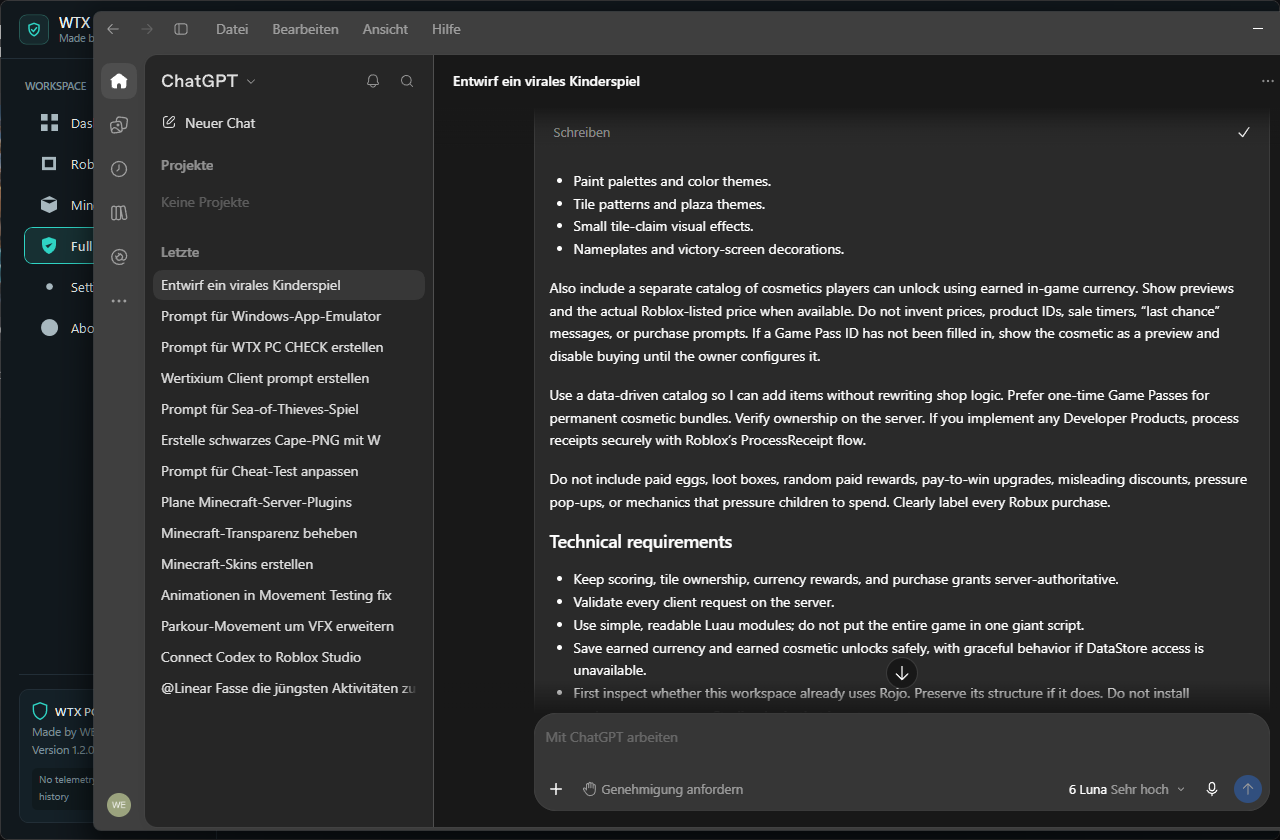
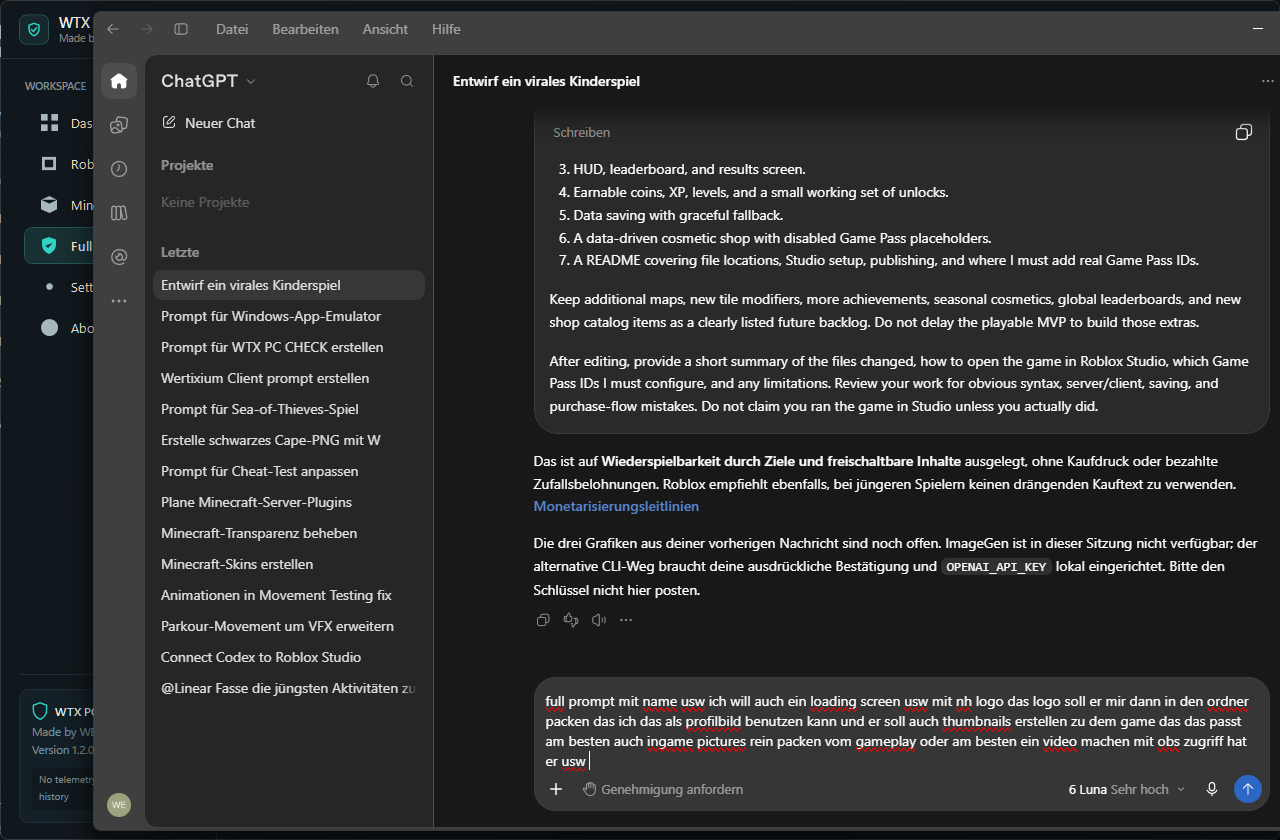
Add preview screenshots and language overview

Changed region(s): [[0.4062, 0.1857, 1.0, 0.9286], [0.9688, 0.9286, 1.0, 0.9595]]

diff --git a/README.md b/README.md
@@ -1,4 +1,10 @@
-# WTX PC CHECK
+![C#](https://img.shields.io/badge/C%23-.NET%2010-512BD4?style=flat-square&logo=dotnet)
+![Windows](https://img.shields.io/badge/Windows-10%2022H2%20%7C%2011-0078D4?style=flat-square&logo=windows)
+![Linux](https://img.shields.io/badge/Linux-x64%20%7C%20Bazzite%20%7C%20Kali-FCC624?style=flat-square&logo=linux&logoColor=111111)
+![Avalonia](https://img.shields.io/badge/UI-Avalonia%20%2B%20WPF-8B44AC?style=flat-square)
+![English UI](https://img.shields.io/badge/UI%20language-English-2FD4C4?style=flat-square)
+
+# WTX PC CHECK
 
 **Made by WERTIX**
 
@@ -9,6 +15,30 @@ The Windows client keeps its tested WPF interface. The Linux client uses a new A
 The application is built with C#, .NET 10, WPF on Windows, and Avalonia on Linux. It does not execute, modify, delete, move, or quarantine discovered files, and it never guarantees that a PC is clean.
 
 GitHub repository name from the project setup: **WTX ROBLOX PC CHECKER**.
+
+## Preview
+
+Real application captures from the delivered builds. Windows previews come from `WTX-PC-CHECK.exe`; the Linux preview comes from the packaged AppImage running under X11.
+
+| Windows dashboard (WPF) | Windows scan setup (WPF) |
+|---|---|
+| ![Windows dashboard](docs/previews/windows-dashboard.png) | ![Windows scan setup](docs/previews/windows-scan.png) |
+
+| Privacy confirmation before scanning | Linux dashboard (Avalonia) |
+|---|---|
+| ![Windows privacy confirmation](docs/previews/windows-privacy.png) | ![Linux dashboard](docs/previews/linux-dashboard.png) |
+
+### Languages and platform
+
+| Area | Language / framework |
+|---|---|
+| User interface | English only |
+| Windows application | C# and XAML, WPF, .NET 10 |
+| Linux application | C# and XAML, Avalonia UI, .NET 10 |
+| Windows helper tooling | PowerShell |
+| Linux packaging | Bash, YAML, AppImage/deb tooling |
+
+GitHub's repository language bar primarily reports C# because the scanner engine, models, services, and both presentation codebases are C#.
 
 ## Run the published application
 
@@ -307,6 +337,8 @@ Linux packages were built on Ubuntu 24.04 in GitHub Actions and the AppImage and
 ## Attribution
 
 Made by WERTIX. (c) 2026 WERTIX. No third-party packages beyond the .NET, WPF, and Avalonia runtimes.
+
+
 
 
 

diff --git a/README-Linux.md b/README-Linux.md
@@ -2,6 +2,8 @@
 
 **Made by WERTIX**
 
+![Linux dashboard preview](docs/previews/linux-dashboard.png)
+
 WTX PC CHECK is a local, defensive PC checker for Linux x64. It keeps the existing Roblox and Minecraft scan categories and adds Linux-native, read-only security checks. The Windows build remains available as `WTX-PC-CHECK.exe`.
 
 ## Download and run
@@ -124,4 +126,5 @@ Self-test:
 ```bash
 ./publish/linux/app/WTX-PC-CHECK --self-test ./linux-selftest.txt
 ```
+
 
